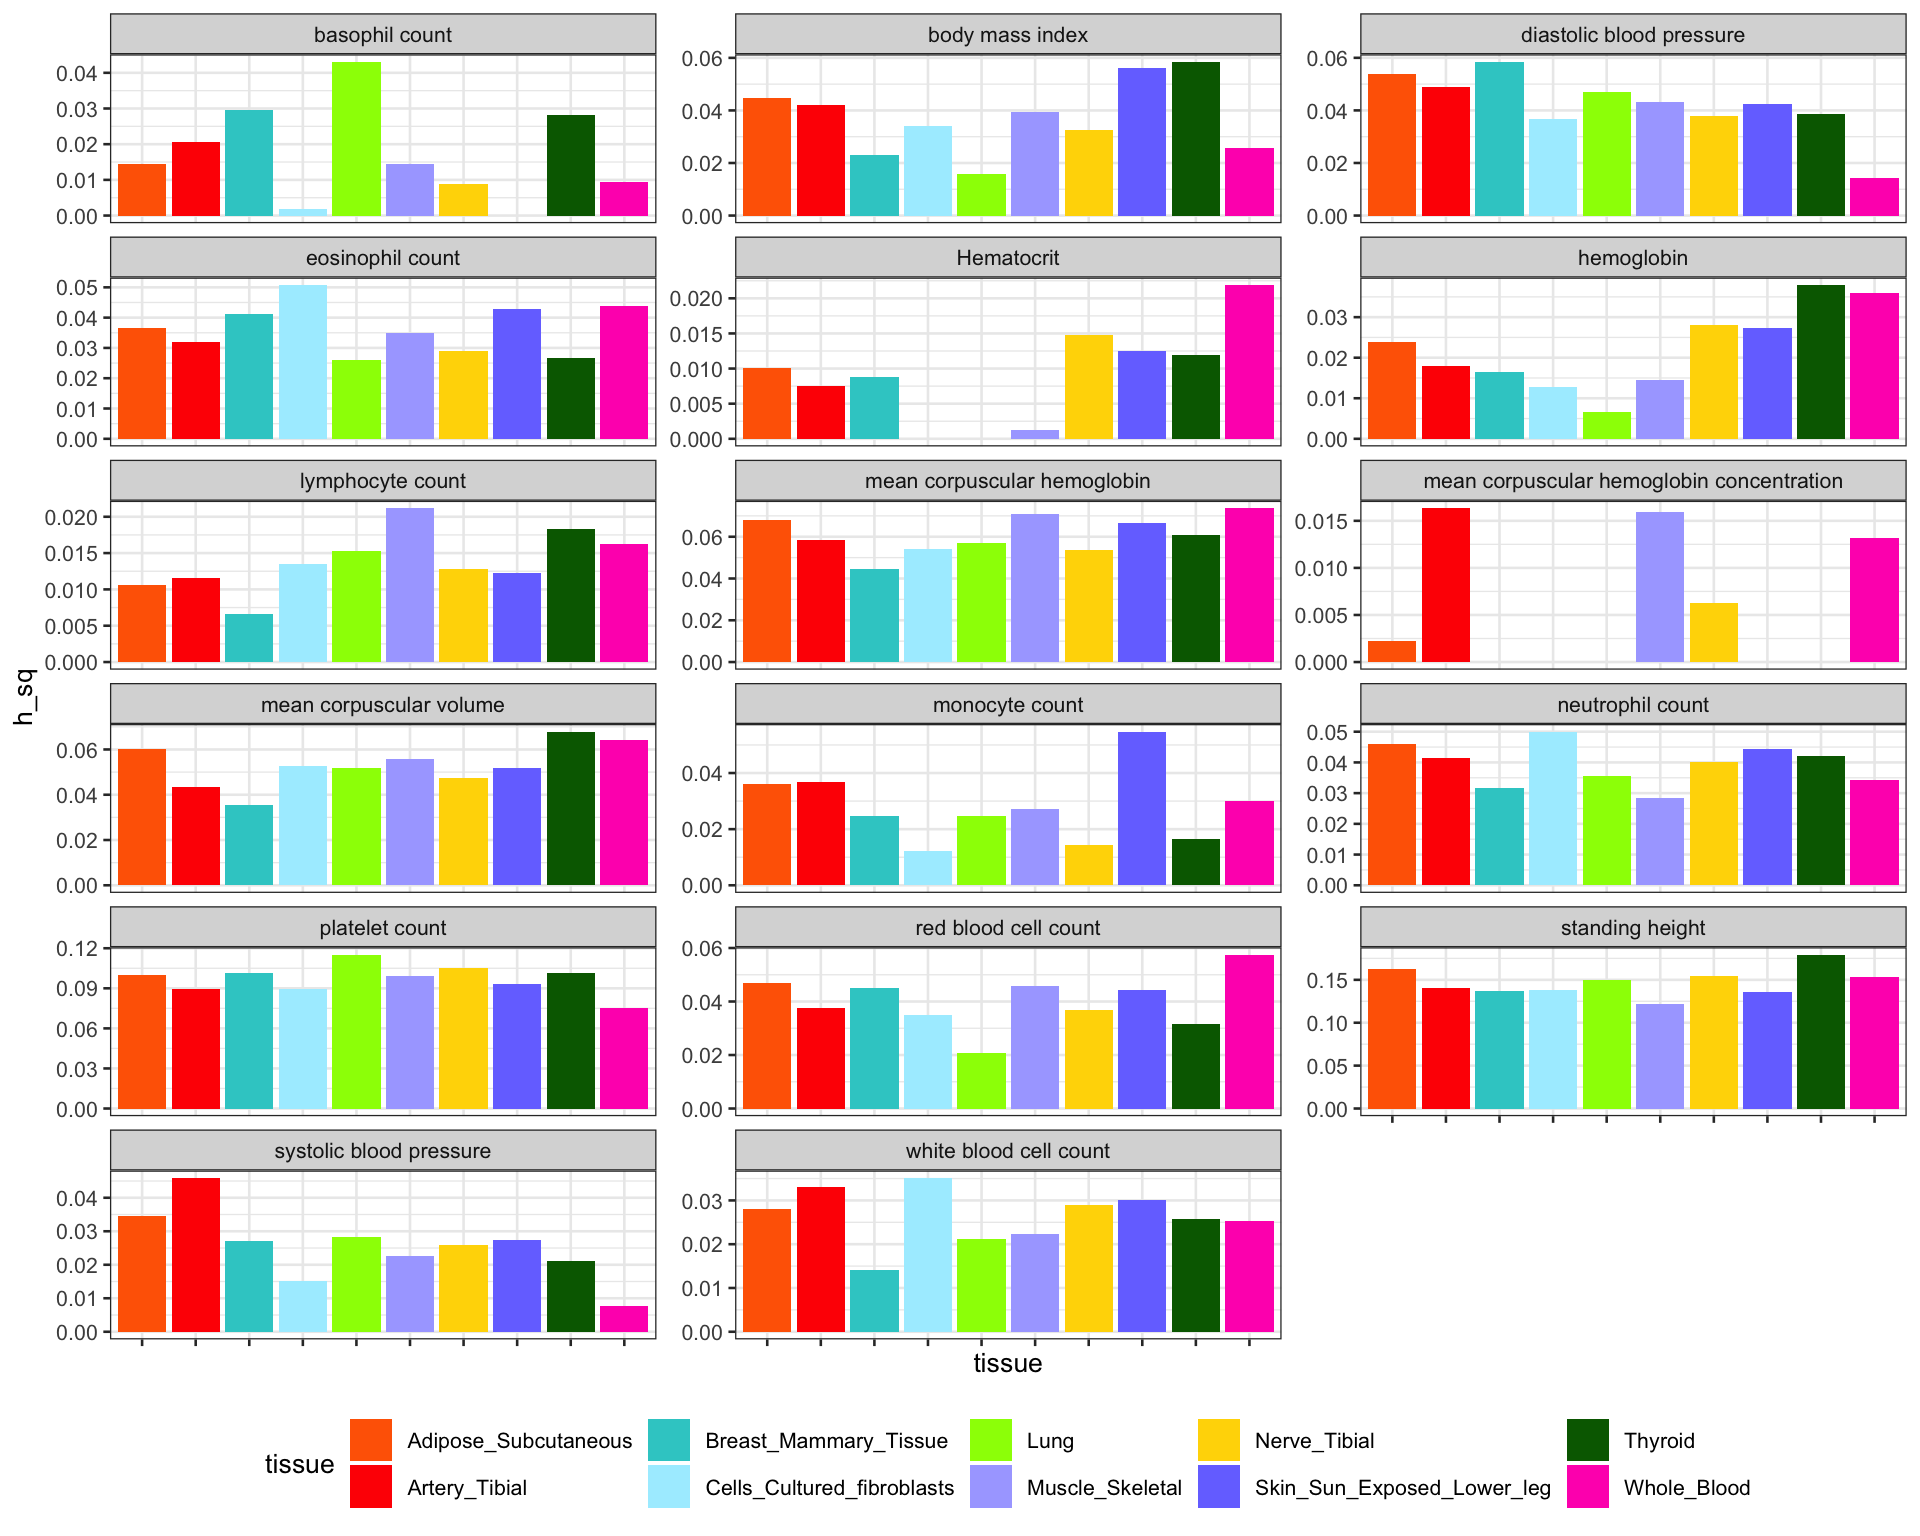
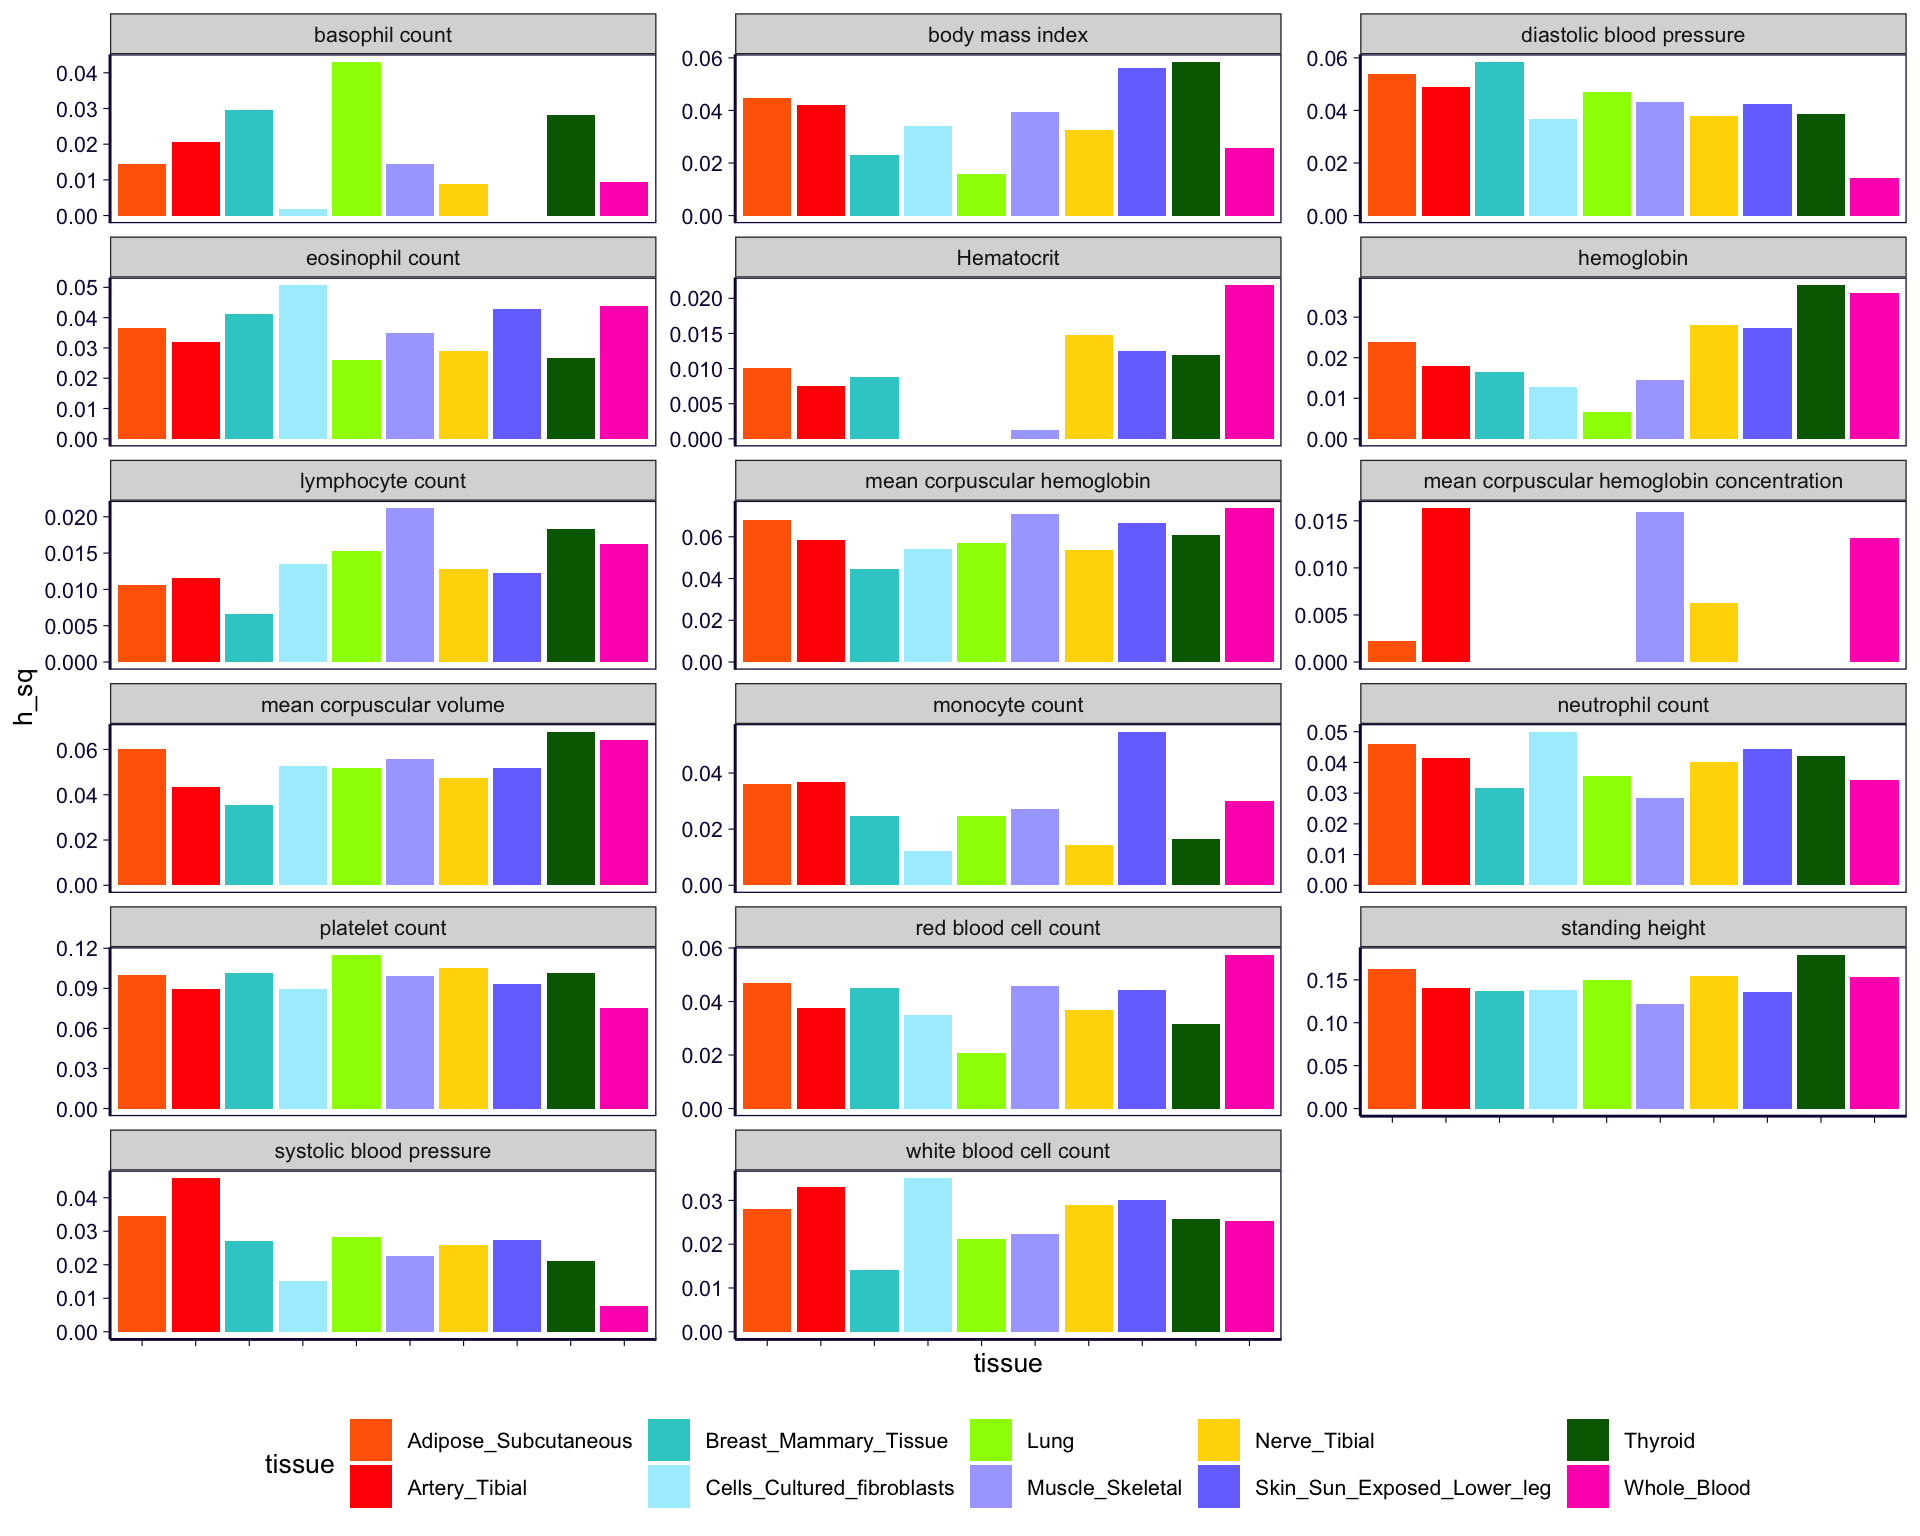
current progress on gcta multi tissue

diff --git a/docs/regulability_ctimp.html b/docs/regulability_ctimp.html
@@ -414,10 +414,13 @@ for(t in tissues) {
   }
 }
 df = do.call(rbind, df)
-df = left_join(df, trait_info, by = c(&#39;trait&#39; = &#39;short&#39;))</code></pre>
+df = left_join(df, trait_info, by = c(&#39;trait&#39; = &#39;short&#39;))
+df[is.na(df)] = 0</code></pre>
 </div>
 <div id="results" class="section level1">
 <h1><span class="header-section-number">2</span> Results</h1>
+<div id="by-tissue-reml" class="section level2">
+<h2><span class="header-section-number">2.1</span> By tissue REML</h2>
 <pre class="r"><code>df %&gt;% select(num_predictors, tissue) %&gt;% filter(!duplicated(tissue)) %&gt;% pander</code></pre>
 <table style="width:64%;">
 <colgroup>
@@ -473,9 +476,31 @@ df = left_join(df, trait_info, by = c(&#39;trait&#39; = &#39;short&#39;))</code>
 </tr>
 </tbody>
 </table>
-<pre class="r"><code>df %&gt;% filter(population == &#39;British-test-1&#39;) %&gt;% ggplot() + geom_bar(aes(x = tissue, y = h_sq, fill = tissue), stat = &#39;identity&#39;) + facet_wrap(~long, ncol = 3, scales = &#39;free_y&#39;) + scale_fill_manual(values = color_board) + theme(legend.position = &#39;bottom&#39;, axis.text.x = element_blank())</code></pre>
-<pre><code>## Warning: Removed 8 rows containing missing values (position_stack).</code></pre>
+<pre class="r"><code>df %&gt;% filter(population == &#39;British-test-1&#39;) %&gt;% ggplot() + geom_bar(aes(x = tissue, y = h_sq, fill = tissue), stat = &#39;identity&#39;) + facet_wrap(~long, ncol = 3, scales = &#39;free_y&#39;) + scale_fill_manual(values = color_board) + theme(legend.position = &#39;bottom&#39;, axis.text.x = element_blank()) + th</code></pre>
 <p><img src="regulability_ctimp_files/figure-html/pve-in-british-1.png" width="960" /></p>
+</div>
+<div id="combining-tissues-naively" class="section level2">
+<h2><span class="header-section-number">2.2</span> Combining tissues naively</h2>
+<p>Let <span class="math inline">\([X_1, \cdots, X_k]\)</span> be the “genotype matrix”. The assumption is that <span class="math inline">\(\beta \sim N(0, \sigma^2)\)</span> is the same for all genes in all tissues.</p>
+<pre class="r"><code>df_naive = list()
+for(pop in pops) {
+  tmp = read.table(paste0(&#39;~/Desktop/tmp/gcta_regu/reml_from_hail-multi-tissue-naive_x_martin_et_al_traits_x_ctimp_x_&#39;, pop, &#39;.tsv&#39;), header = T, stringsAsFactors = F, sep = &#39;\t&#39;)
+  df_naive[[length(df_naive) + 1]] = tmp %&gt;% mutate(population = pop)
+}
+df_naive = do.call(rbind, df_naive)
+df_naive[is.na(df_naive)] = 0
+df_naive %&gt;% ggplot() + geom_bar(aes(x = trait, y = h_sq, fill = population), stat = &#39;identity&#39;, position = &#39;dodge&#39;) + theme(legend.position = &#39;bottom&#39;) + th + ggtitle(&#39;REML analysis: combining tissues naively&#39;)</code></pre>
+<p><img src="regulability_ctimp_files/figure-html/multi-naive-1.png" width="768" /></p>
+<p>Combined vs. Whole blood.</p>
+<pre class="r"><code>merge = inner_join(
+  df_naive %&gt;% select(trait, population, h_sq, h_sq_se),
+  df %&gt;% filter(tissue == &#39;Whole_Blood&#39;) %&gt;% select(trait, population, h_sq, h_sq_se),
+  by = c(&#39;trait&#39;, &#39;population&#39;),
+  suffix = c(&#39;.combined&#39;, &#39;.whole_blood&#39;)
+)
+merge %&gt;% ggplot() + geom_point(aes(x = h_sq.whole_blood, y = h_sq.combined)) + facet_wrap(~population) + geom_abline(slope = 1, intercept = 0) + th</code></pre>
+<p><img src="regulability_ctimp_files/figure-html/multi-naive-vs-1.png" width="384" /></p>
+</div>
 </div>
 
 

diff --git a/code/estimate_hsq_multi_tissue.py b/code/estimate_hsq_multi_tissue.py
@@ -104,6 +104,37 @@ if args.mode == 'naive':
             piled_pred_expr = pd.concat((piled_pred_expr, df_pred_expr), ignore_index = True)
         indiv_pool = np.intersect1d(indiv_pool, piled_pred_expr.columns.to_list())
         logging.info('--> MODE {}, {}/{}, Current sample size = {}'.format(args.mode, i + 1, ntotal, indiv_pool.shape[0]))
+elif args.mode == 'tissue_svd':
+    # loop over all genes and do svd for each gene.
+    # first of all, collect pred expr and genes
+    list_pred_expr = []
+    col_order = None
+    genes = set()
+    for i in range(ntotal):
+        filename = predictor_tables[i]
+        colname = args.predictor_gene_column
+        df_pred_expr = ghelper.tsv_to_pd_df(filename, indiv_col = colname)
+        # df_pred_expr = df_pred_expr.drop(columns = [colname])
+        if col_order is None:
+            col_order = list(df_pred_expr.columns)
+            gene_idx = col_order.index(colname)
+            col_order.pop(gene_idx)
+            col_order.append(colname)
+        else:
+            df_pred_expr = df_pred_expr[col_order]
+        list_pred_expr.append(df_pred_expr)
+        genes.union(set(df_pred_expr[colname].to_list()))
+    # second, loop over gene and do svd
+    piled_pred_expr = None
+    for g in genes:
+        _mat = []
+        for ele in list_pred_expr:
+            _tmp = list(ele.loc[ele[colname] == g])
+            _tmp.pop(-1)
+            _mat.append(_tmp)
+        _mat = np.array(_mat)
+        
+        
 
 # organize tables and matrix so that they match by individual ordering
 logging.info('Organizing tables and matrix by individual ordering')
